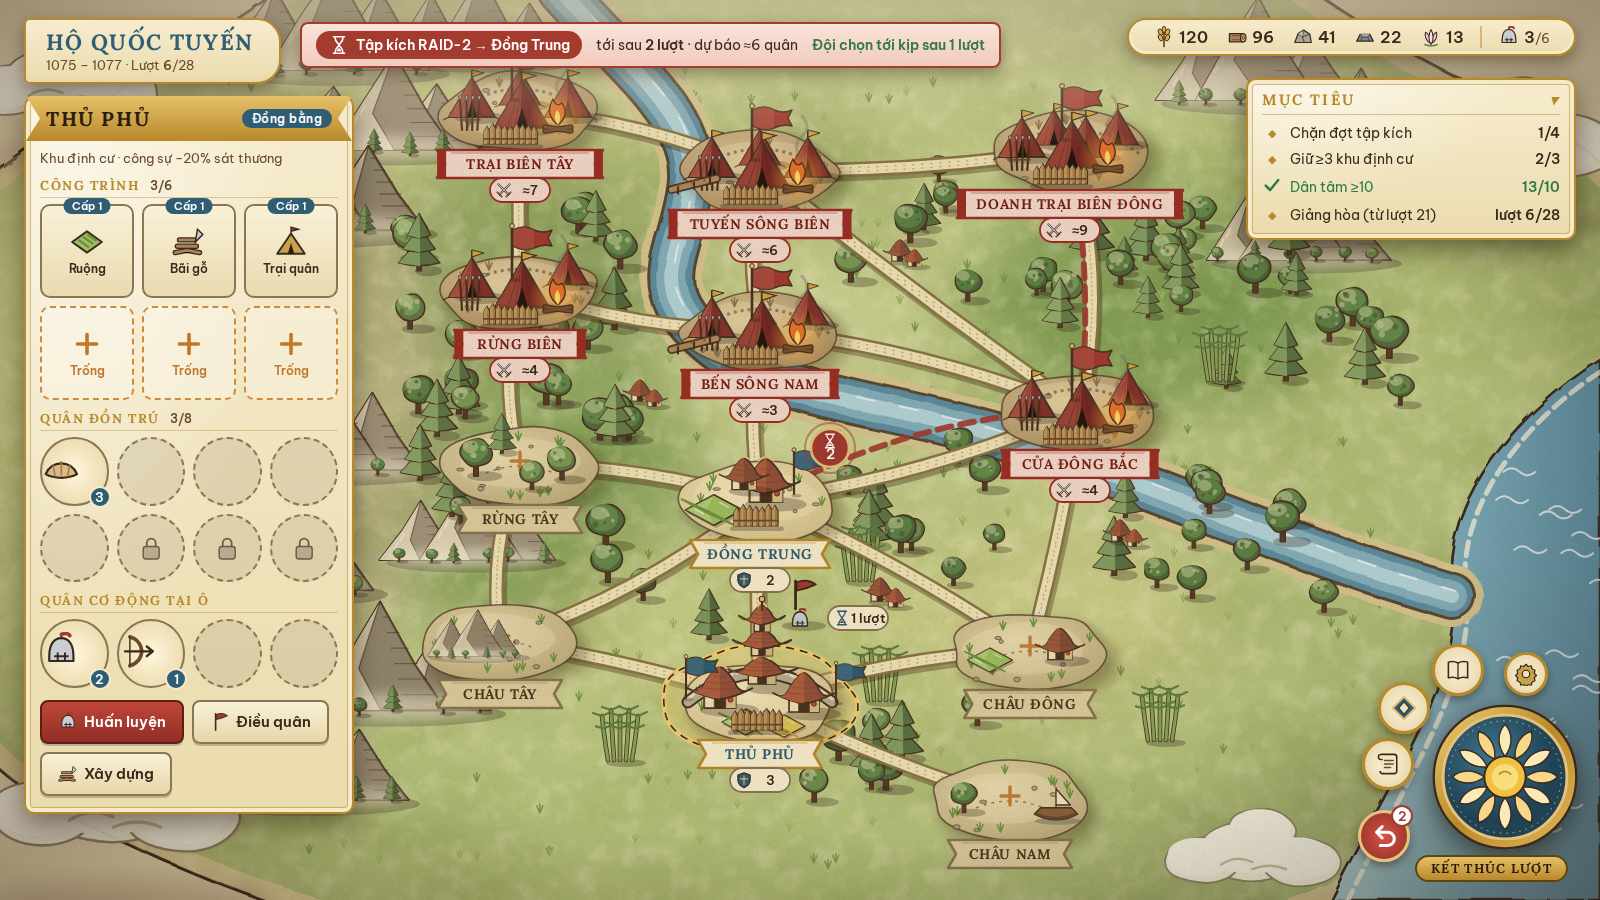
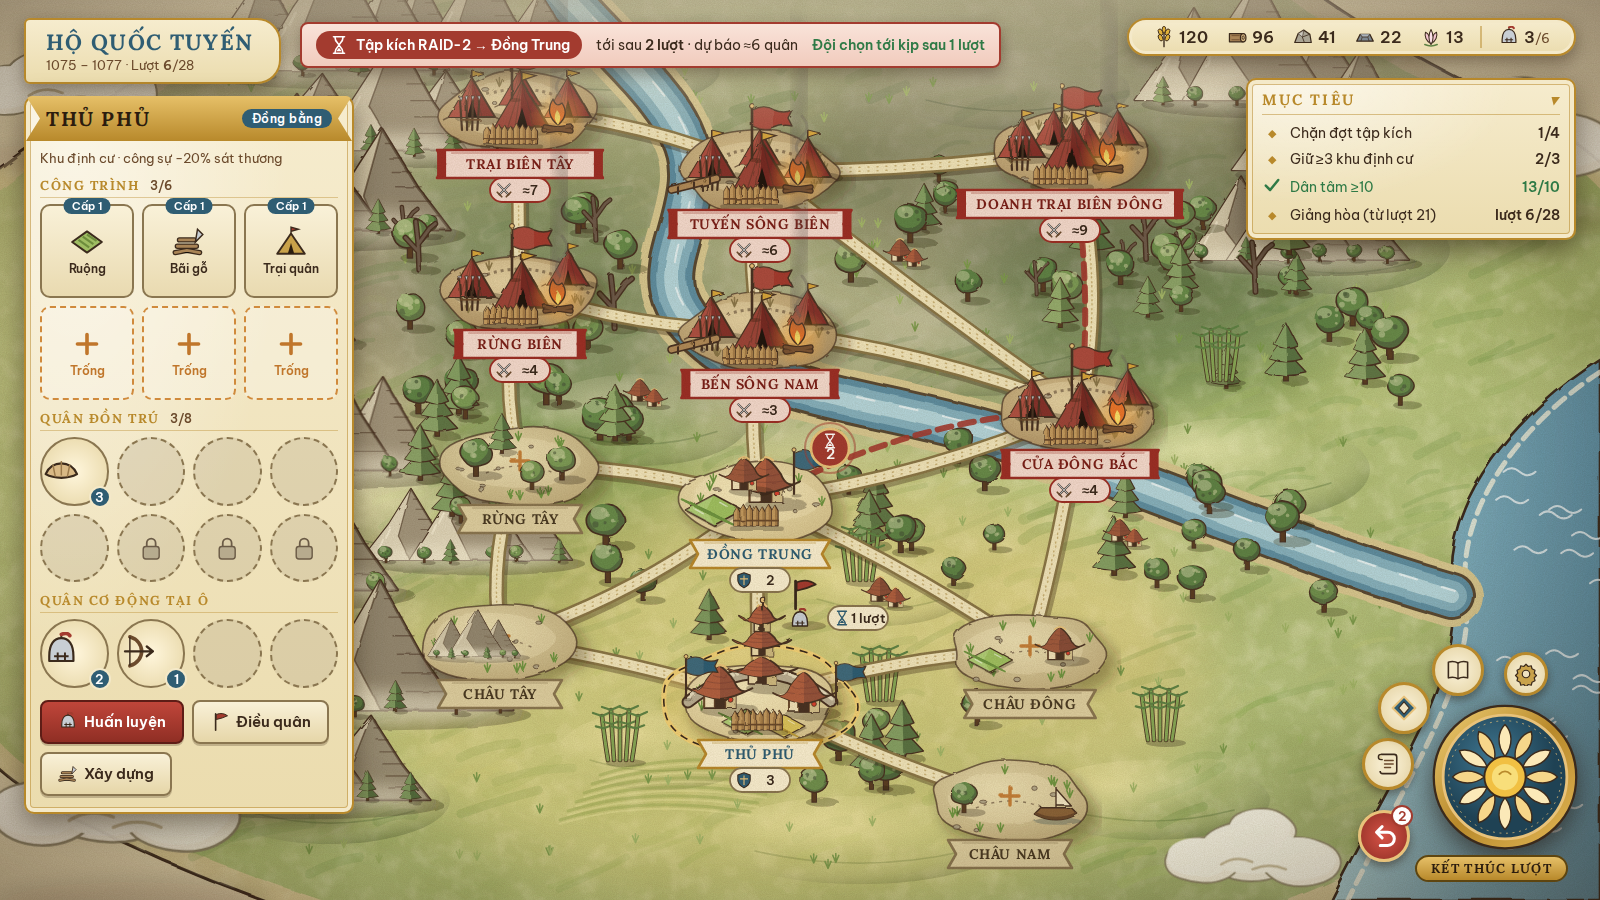
CR-003 design preview v3: brush strokes, hills, regional tint, hand-drawn wobble, zoom detail image

diff --git a/docs/design/ui/mockups/art.js b/docs/design/ui/mockups/art.js
@@ -39,6 +39,9 @@ function tree(x, y, s = 1, seed = 1) {
   }
   return g + '</g>';
 }
+function deadTree(x, y, s = 1) {
+  return `<g transform="translate(${f1(x)},${f1(y)}) scale(${s})"><ellipse cx="6" cy="3" rx="13" ry="4" fill="${SH}"/><path d="M0,2 L-1,-22 M-1,-14 L-12,-26 M-1,-20 L9,-34 M-1,-22 L-3,-40 M9,-34 l5,-4" stroke="${INK2}" stroke-width="5" fill="none" stroke-linecap="round"/><path d="M0,2 L-1,-22 M-1,-14 L-12,-26 M-1,-20 L9,-34 M-1,-22 L-3,-40 M9,-34 l5,-4" stroke="#6e5a48" stroke-width="2.6" fill="none" stroke-linecap="round"/></g>`;
+}
 function bamboo(x, y, s = 1) {
   let g = `<g transform="translate(${x},${y}) scale(${s})"><ellipse cx="6" cy="3" rx="20" ry="4" fill="${SH}"/>`;
   for (let i = -2; i <= 2; i++) {
@@ -253,8 +256,12 @@ function settlementArt(id) {
 
 function mapSvg({ viewBox = '0 0 1600 900', sel = null, showAlert = true, w = 1600, h = 900, army = true } = {}) {
   const P = (n) => TILES[id3(n)].p;
+  const land = blob(800, 450, 960, 560, 21, 22, .06);
   let s = `<svg xmlns="http://www.w3.org/2000/svg" width="${w}" height="${h}" viewBox="${viewBox}" preserveAspectRatio="xMidYMid slice" font-family="Be Vietnam Pro,sans-serif"><defs>
 <filter id="rough" x="-5%" y="-5%" width="110%" height="110%"><feTurbulence type="fractalNoise" baseFrequency=".035" numOctaves="2" seed="3" result="n"/><feDisplacementMap in="SourceGraphic" in2="n" scale="5"/></filter>
+<filter id="wob" x="-8%" y="-8%" width="116%" height="116%"><feTurbulence type="fractalNoise" baseFrequency=".06" numOctaves="2" seed="5" result="n"/><feDisplacementMap in="SourceGraphic" in2="n" scale="2.6"/></filter>
+<radialGradient id="hill" cx=".35" cy=".3" r=".8"><stop offset="0" stop-color="rgba(255,250,200,.55)"/><stop offset=".55" stop-color="rgba(255,250,200,0)"/><stop offset="1" stop-color="rgba(40,60,20,.38)"/></radialGradient>
+<clipPath id="landclip"><path d="${land}"/></clipPath>
 <filter id="soft" x="-30%" y="-60%" width="160%" height="220%"><feGaussianBlur stdDeviation="6"/></filter>
 <filter id="blur30" x="-30%" y="-30%" width="160%" height="160%"><feGaussianBlur stdDeviation="34"/></filter>
 <filter id="paper" x="0" y="0" width="100%" height="100%"><feTurbulence type="fractalNoise" baseFrequency=".9" numOctaves="3" seed="7"/><feColorMatrix values="0 0 0 0 .35  0 0 0 0 .26  0 0 0 0 .14  0 0 0 .22 0"/></filter>
@@ -271,7 +278,6 @@ function mapSvg({ viewBox = '0 0 1600 900', sel = null, showAlert = true, w = 16
 <radialGradient id="glow"><stop offset="0" stop-color="rgba(255,170,60,.65)"/><stop offset="1" stop-color="rgba(255,170,60,0)"/></radialGradient>
 <marker id="arr" viewBox="0 0 10 10" refX="6" refY="5" markerWidth="5" markerHeight="5" orient="auto"><path d="M0,0 L10,5 L0,10Z" fill="#a33b2f"/></marker>
 ${SYMBOLS}</defs>`;
-  const land = blob(800, 450, 960, 560, 21, 22, .06);
   s += `<rect width="1600" height="900" fill="#e6d9b3"/>`;
   // đất liền: viền cát → cỏ, rồi các mảng màu loang
   s += `<g filter="url(#rough)"><path d="${land}" fill="#dccd98" stroke="${INK}" stroke-width="3"/></g>`;
@@ -279,6 +285,16 @@ ${SYMBOLS}</defs>`;
   s += `<g opacity=".7" filter="url(#blur30)"><ellipse cx="500" cy="470" rx="200" ry="150" fill="#6f9446"/><ellipse cx="520" cy="270" rx="170" ry="110" fill="#6a8b44"/><ellipse cx="1150" cy="300" rx="190" ry="110" fill="#6f9446"/><ellipse cx="780" cy="640" rx="230" ry="110" fill="#c8cf86"/><ellipse cx="1060" cy="620" rx="150" ry="100" fill="#d4d38d"/><ellipse cx="760" cy="170" rx="160" ry="80" fill="#a2b36c"/><ellipse cx="300" cy="420" rx="140" ry="260" fill="#b0a780"/></g>`;
   s += `<path d="${land}" fill="#fff" filter="url(#wash)" opacity=".55" style="mix-blend-mode:multiply"/><path d="${land}" fill="#fff" filter="url(#mottle)" opacity=".5"/>`;
   s += `<path d="${land}" fill="url(#sun)"/>`;
+  // nét cọ chồng lớp (cảm giác tranh sơn), đồi nhấp nhô, tô màu theo vùng
+  { const b = R(303); let g = '<g clip-path="url(#landclip)">';
+    const cols = ['#8fae57', '#a9c068', '#6f9446', '#c3c97c', '#7f9f4e'];
+    for (let i = 0; i < 520; i++) { const x = 100 + b() * 1400, y = 20 + b() * 870, a = -0.5 + b() * .35, L = 26 + b() * 52, c = cols[Math.floor(b() * cols.length)]; g += `<path d="M${f1(x)},${f1(y)} q${f1(L / 2)},${f1(-8 - b() * 10)} ${f1(L)},${f1(Math.tan(a) * L)}" stroke="${c}" stroke-width="${f1(4 + b() * 7)}" fill="none" stroke-linecap="round" opacity="${f1(.14 + b() * .16)}"/>`; }
+    const hills = [[420, 520, 120, 52], [640, 420, 110, 46], [980, 340, 140, 56], [1240, 470, 130, 52], [860, 840, 150, 44], [1150, 800, 120, 40], [330, 800, 120, 44], [1340, 250, 110, 44], [610, 70, 110, 38], [1010, 90, 120, 40], [880, 590, 90, 36], [660, 750, 100, 40]];
+    for (const [x, y, rx, ry] of hills) g += `<ellipse cx="${x}" cy="${y}" rx="${rx}" ry="${ry}" fill="url(#hill)"/><path d="M${x - rx * .7},${y + ry * .25} q${rx * .7},${ry * .55} ${rx * 1.4},0" stroke="#4d6a30" stroke-width="1.6" fill="none" opacity=".35" stroke-linecap="round"/>`;
+    // ruộng bậc thang ở sườn tây-nam
+    for (let k = 0; k < 6; k++) g += `<path d="M${560 + k * 8},${820 - k * 9} q80,-26 190,-8" stroke="#6f9440" stroke-width="3" fill="none" opacity=".45" stroke-linecap="round"/><path d="M${560 + k * 8},${824 - k * 9} q80,-26 190,-8" stroke="#e5ecb0" stroke-width="2" fill="none" opacity=".4" stroke-linecap="round"/>`;
+    g += `<ellipse cx="780" cy="130" rx="720" ry="300" fill="#5a4a6a" opacity=".22" filter="url(#blur30)"/><ellipse cx="1060" cy="150" rx="260" ry="140" fill="#4a3a3a" opacity=".22" filter="url(#blur30)"/><ellipse cx="780" cy="690" rx="420" ry="220" fill="#f6d27a" opacity=".3" filter="url(#blur30)"/>`;
+    s += g + '</g>'; }
   // cỏ lác đác
   { const gr = R(77); for (let i = 0; i < 260; i++) { const x = 140 + gr() * 1280, y = 40 + gr() * 830; if (Object.values(TILES).some((t) => Math.hypot(t.p[0] - x, (t.p[1] - y) * 1.6) < 96)) continue; s += tuft(x, y, 1, gr() < .5 ? '#7d9a4c' : '#a2b568'); } }
   // biển (đông nam) có độ sâu và sóng vỗ bờ
@@ -291,11 +307,11 @@ ${SYMBOLS}</defs>`;
   s += `<path d="${river}" stroke="#fff" stroke-width="2" fill="none" stroke-dasharray="18 26" opacity=".6" stroke-linecap="round" transform="translate(3,-5)"/>`;
   // núi, rừng
   const M = [[300, 230, 1.15, 1], [390, 150, .95, 2], [330, 70, 1.0, 3], [230, 340, .95, 4], [320, 470, 1.0, 5], [250, 590, 1.15, 6], [380, 710, 1.05, 7], [470, 560, .8, 8], [300, 800, 1.0, 9], [480, 60, .8, 10], [1260, 100, .95, 11], [1360, 170, 1.0, 12], [1300, 260, .85, 13]];
-  M.sort((a, b) => a[1] - b[1]); for (const [x, y, sc, sd] of M) s += mountain(x, y, sc, sd, sd);
+  M.sort((a, b) => a[1] - b[1]); s += '<g filter="url(#wob)">'; for (const [x, y, sc, sd] of M) s += mountain(x, y, sc * 1.2, sd, sd); s += '</g>';
   const rnd = R(5), trees = [];
   for (const [cx, cy, n] of [[520, 465, 22], [520, 290, 22], [1180, 290, 20], [1220, 560, 12], [900, 770, 12], [640, 600, 8], [960, 240, 12], [930, 520, 9], [1330, 340, 8]]) for (let i = 0; i < n; i++) trees.push([cx + (rnd() - .5) * 240, cy + (rnd() - .5) * 130, .75 + rnd() * .5, Math.floor(rnd() * 99)]);
   trees.sort((a, b) => a[1] - b[1]);
-  for (const [x, y, sc, sd] of trees) { if (Object.values(TILES).some((t) => Math.hypot(t.p[0] - x, (t.p[1] - y) * 1.5) < 88)) continue; s += tree(x, y, sc, sd); }
+  s += '<g filter="url(#wob)">'; for (const [x, y, sc, sd] of trees) { if (Object.values(TILES).some((t) => Math.hypot(t.p[0] - x, (t.p[1] - y) * 1.5) < 88)) continue; s += (y < 330 && sd % 3 === 0) ? deadTree(x, y, sc) : tree(x, y, sc, sd); } s += '</g>';
   for (const [x, y] of [[880, 700], [1160, 740], [620, 760], [1220, 380], [860, 580]]) s += bamboo(x, y, 1);
   // làng nhỏ ven đường
   for (const [x, y, sc] of [[880, 600, .6], [640, 400, .55], [1120, 540, .55], [900, 260, .55]]) s += house(x, y, sc, '#9f5a3c') + house(x + 26 * sc, y + 10 * sc, sc * .8, '#b0603f');
@@ -308,7 +324,7 @@ ${SYMBOLS}</defs>`;
   for (const id of order) {
     const [x, y] = TILES[id].p, st = TILES[id].s;
     if (sel === id) s += `<path d="${blob(x, y + 2, 98, 56, 5, 14, .08)}" fill="rgba(240,207,117,.35)" stroke="#f0cf75" stroke-width="5"/><path d="${blob(x, y + 2, 98, 56, 5, 14, .08)}" fill="none" stroke="${INK}" stroke-width="1.6" stroke-dasharray="8 6"/>`;
-    s += settlementArt(id);
+    s += `<g filter="url(#wob)">${settlementArt(id)}</g>`;
     const name = TILES[id].n, kind = st === 'settled' ? 'own' : st === 'open' ? 'open' : 'enemy';
     s += banner(x, y + 54, name, kind);
     if (st === 'settled') s += chip(x, y + 80, 'i-shield', id === 'TIL-001' ? '3' : '2', 'own');
@@ -317,6 +333,7 @@ ${SYMBOLS}</defs>`;
   if (showAlert) s += alertBadge(P(5)[0] + 70, P(5)[1] - 52, 2);
   // đội quân đang hành quân 001→005
   if (army) { const [x, y] = [800, 612]; s += `<g transform="translate(${x},${y})"><ellipse cx="4" cy="14" rx="22" ry="5" fill="rgba(60,40,20,.3)"/><use href="#i-banner" x="-14" y="-34" width="34" height="34"/><use href="#i-helm" x="-12" y="-4" width="24" height="24"/></g>` + chip(x + 58, y + 6, 'i-hourglass', '1 lượt', 'own').replace('<use href="#i-hourglass"', '<use color="#2f5d73" href="#i-hourglass"'); }
+  for (const n of [7, 9, 10, 11, 12]) { const [x, y] = P(n); s += `<path d="M${x + 38},${y - 4} C${x + 20},${y - 50} ${x + 62},${y - 90} ${x + 34},${y - 150}" stroke="#4d4540" stroke-width="16" fill="none" opacity=".22" stroke-linecap="round" filter="url(#soft)"/><path d="M${x + 38},${y - 4} C${x + 26},${y - 46} ${x + 56},${y - 86} ${x + 40},${y - 130}" stroke="#7a726a" stroke-width="7" fill="none" opacity=".3" stroke-linecap="round" filter="url(#soft)"/>`; }
   // sương mù vùng chưa khám phá (phía bắc) + mây rìa + tối góc
   s += `<rect x="0" y="0" width="1600" height="150" fill="url(#fog)" opacity=".55"/>`;
   s += cloud(1500, 130, 1.5, 3) + cloud(110, 800, 1.7, 4) + cloud(1250, 850, 1.2, 5) + cloud(60, 80, 1.3, 6);

diff --git a/docs/design/ui/mockups/screens.js b/docs/design/ui/mockups/screens.js
@@ -139,3 +139,7 @@ function screenBoard() {
   <h3>Nút Kết thúc lượt & cụm nút tròn</h3><div style="position:relative;height:250px">${cluster(130).replace('class="cluster"', 'class="cluster" style="position:absolute;left:0;top:0;width:380px;height:250px"')}</div>
   <h3>Nguyên tắc</h3><ul class="pr"><li>Bản đồ toàn màn hình, địa điểm là cụm minh họa — không phải hộp (P-UI1)</li><li>Mọi trạng thái có biểu tượng + chữ, không chỉ màu (trợ năng)</li><li>Hậu quả hiện bằng chữ trước khi bấm (P-UI6)</li><li>Họa tiết: sen, lá đề, rồng Lý — cần thẩm định sử học</li></ul></div></div>`;
 }
+
+function screenZoom() { // cận cảnh nghệ thuật (zoom ~2.7x, không HUD) — mức phóng khi người chơi zoom vào
+  return `<div class="stage" style="width:1280px;height:800px">${mapSvg({ viewBox: '590 400 480 300', w: 1280, h: 800, sel: null, showAlert: true })}</div>`;
+}

diff --git a/docs/design/ui/mockups/mock.html b/docs/design/ui/mockups/mock.html
@@ -82,5 +82,5 @@ h4{margin:10px 0 6px;font:700 13px Lora;letter-spacing:.12em;text-transform:uppe
 <body><script src="art.js"></script><script src="screens.js"></script>
 <script>
 const s = (location.hash || '#map').slice(1);
-document.body.innerHTML = sprite + ({ map: screenMap, event: screenEvent, battle: screenBattle, mobile: screenMobile, board: screenBoard }[s] || screenMap)();
+document.body.innerHTML = sprite + ({ map: screenMap, event: screenEvent, battle: screenBattle, mobile: screenMobile, board: screenBoard, zoom: screenZoom }[s] || screenMap)();
 </script></body></html>

diff --git a/docs/design/ui/README.md b/docs/design/ui/README.md
@@ -39,3 +39,7 @@ Giữ nguyên bố cục/HUD, vẽ lại lớp minh họa theo một nguồn sá
 - **Đường**: đường đất có bóng, vệt bánh xe; làng nhỏ rải ven đường; sương mù phía bắc (chưa khám phá).
 
 Giới hạn còn lại (trung thực): vẫn là SVG thủ tục, nên cây/nhà còn lặp mẫu; chưa có hoạt ảnh; tranh sự kiện mới có 1 cảnh (7 sự kiện còn lại dùng chung hoặc chờ tranh); cây Kế sách, hộp Xây dựng, bảng ô địch chưa thiết kế. Nếu muốn vượt mức này cần tranh nền/icon do họa sĩ hoặc công cụ ảnh bạn cấp (CR-003 câu hỏi 1).
+
+### Lần 3 (2026-10-24, "nhìn quá tệ")
+Thêm: nét cọ chồng lớp (520 nét) + đồi nhấp nhô + tô màu theo vùng (bắc u ám tím-xám, nam ấm vàng) + nét mực rung như vẽ tay (filter wob) + cây chết quanh đất địch + cột khói từ trại + ruộng bậc thang; ảnh cận cảnh `05_zoom_detail.png` (mức zoom trong game).
+Đánh giá thật: ảnh cận cảnh cho thấy trần của cách vẽ bằng code: nhà/cây vẫn là hình vector phẳng, bóng/độ sâu chỉ mô phỏng, chưa có chất tranh vẽ tay. Tiếp tục thêm code chỉ cho cải thiện nhỏ. Muốn tới mức Demacia Rising cần tranh/icon thật (họa sĩ, công cụ tạo ảnh của bạn, hoặc bộ CC0 phối lại).
